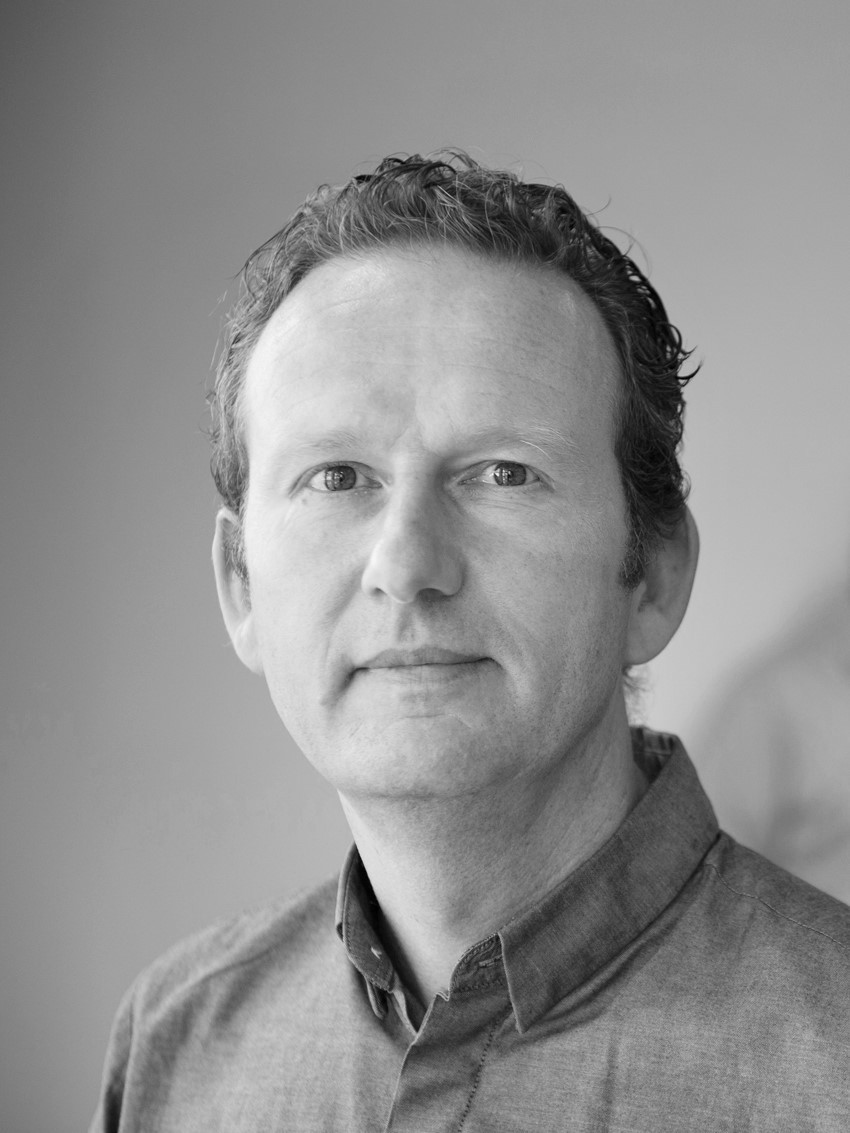
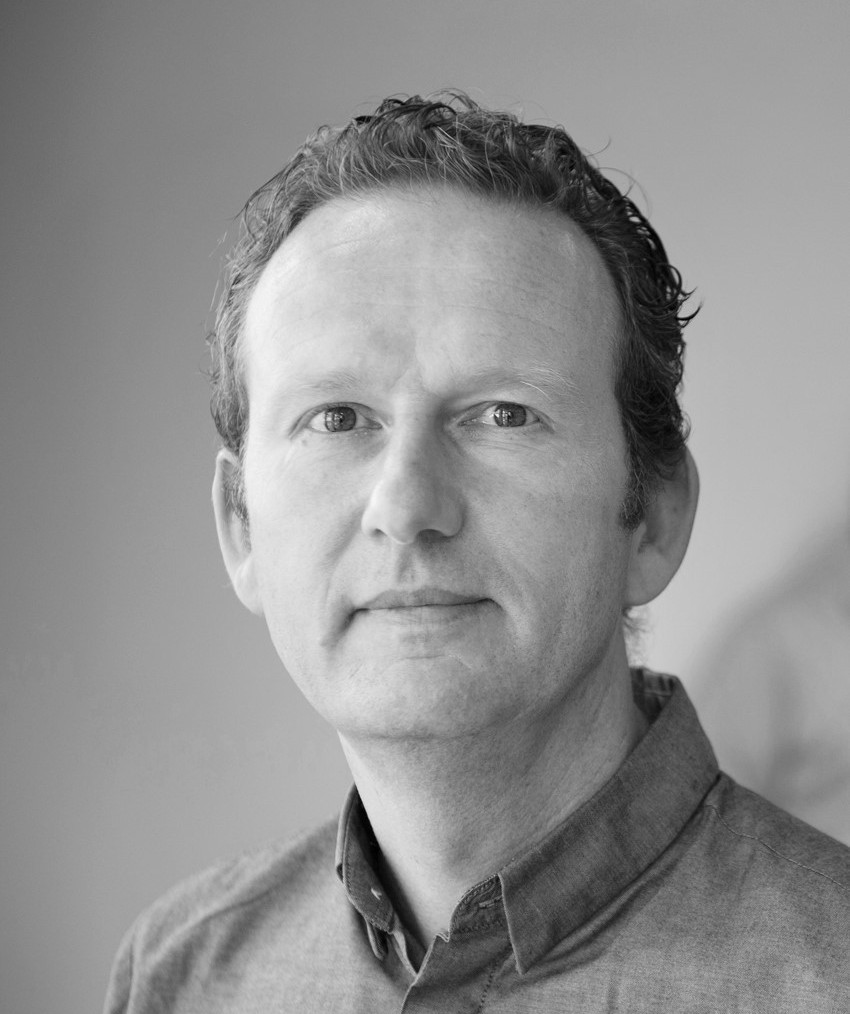
About us

diff --git a/themes/fortify-hugo/layouts/about/list.html b/themes/fortify-hugo/layouts/about/list.html
@@ -105,8 +105,22 @@
                     class="mb-6 overflow-hidden rounded-xl bg-light text-center md:rounded-3xl">
                     {{ partial "image" (dict "Src" .image "Alt" "Team Member Image" "Class" "w-full h-auto object-cover") }}
                   </div>
+                  <div class="social-links">
+                    {{ if .bsky }}<a href="{{ .bsky }}" target="_blank" rel="noopener noreferrer">
+                      <i class="fab fa-bluesky"></i></a>{{ end }}
+                    {{ if .github }}<a href="{{ .github }}" target="_blank" rel="noopener noreferrer">
+                      <i class="fab fa-github"></i></a>{{ end }}
+                    {{ if .linkedin }}<a href="{{ .linkedin }}" target="_blank" rel="noopener noreferrer">
+                      <i class="fab fa-linkedin"></i></a>{{ end }}
+                    {{ if .website }}<a href="{{ .website }}" target="_blank" rel="noopener noreferrer">
+                      <i class="fas fa-globe"></i></a>{{ end }}
+                    {{ if .twitter }}<a href="{{ .twitter }}" target="_blank" rel="noopener noreferrer">
+                      <i class="fab fa-twitter"></i></a>{{ end }}
+                    {{ if .mastodon }}<a href="{{ .mastodon }}" target="_blank" rel="noopener noreferrer">
+                      <i class="fab fa-mastodon"></i></a>{{ end }}
+                  </div>
                   <h3 class="h6 mb-1.5">{{ .name | markdownify }}</h3>
-                  <p>{{ .company | markdownify }}</p>
+                  <p>{{ .title | markdownify }}</p>
                 </div>
               {{ end }}
             </div>
@@ -115,7 +129,21 @@
       </div>
     </section>
   {{ end }}
-  <!-- Our Team --> 
+  <!-- Our Team -->
+
+  <style>
+    .social-links {
+      float: right;
+    }
+  
+    .social-links a {
+      color: var(--color-primary);
+    }
+  
+    .social-links a:hover {
+      color: var(--color-tertiary);
+    }
+  </style>
 
  <!-- Banner 4 -->
  <section class="section">
@@ -142,6 +170,6 @@
     </div>
   </div>
 </section>
-<!-- /Banner 4 -->   
+<!-- /Banner 4 -->
 
 {{ end }}

diff --git a/content/english/about/_index.md b/content/english/about/_index.md
@@ -52,9 +52,17 @@ our_team:
 
   list:
     - name: "Neil Smyth"
-      image: "/images/team/neil-smyth.png"
+      image: "/images/team/neil-smyth.jpg"
+      title: Co-founder | CEO / CTO
+      bsky: https://neilsmyth.bsky.social/
+      linkedin: https://www.linkedin.com/in/neilasmyth/
+      github: https://github.com/techsmyth
     - name: "René Honig"
       image: "/images/team/rene-honig.jpg"
+      title: Co-founder | Chief AI
+      bsky: https://renehonig.bsky.social/
+      linkedin: https://www.linkedin.com/in/renehonig/
+      github: https://github.com/renehonig
 
 banner_structure:
   title: "**Introducing Alkemio's Structure**"
